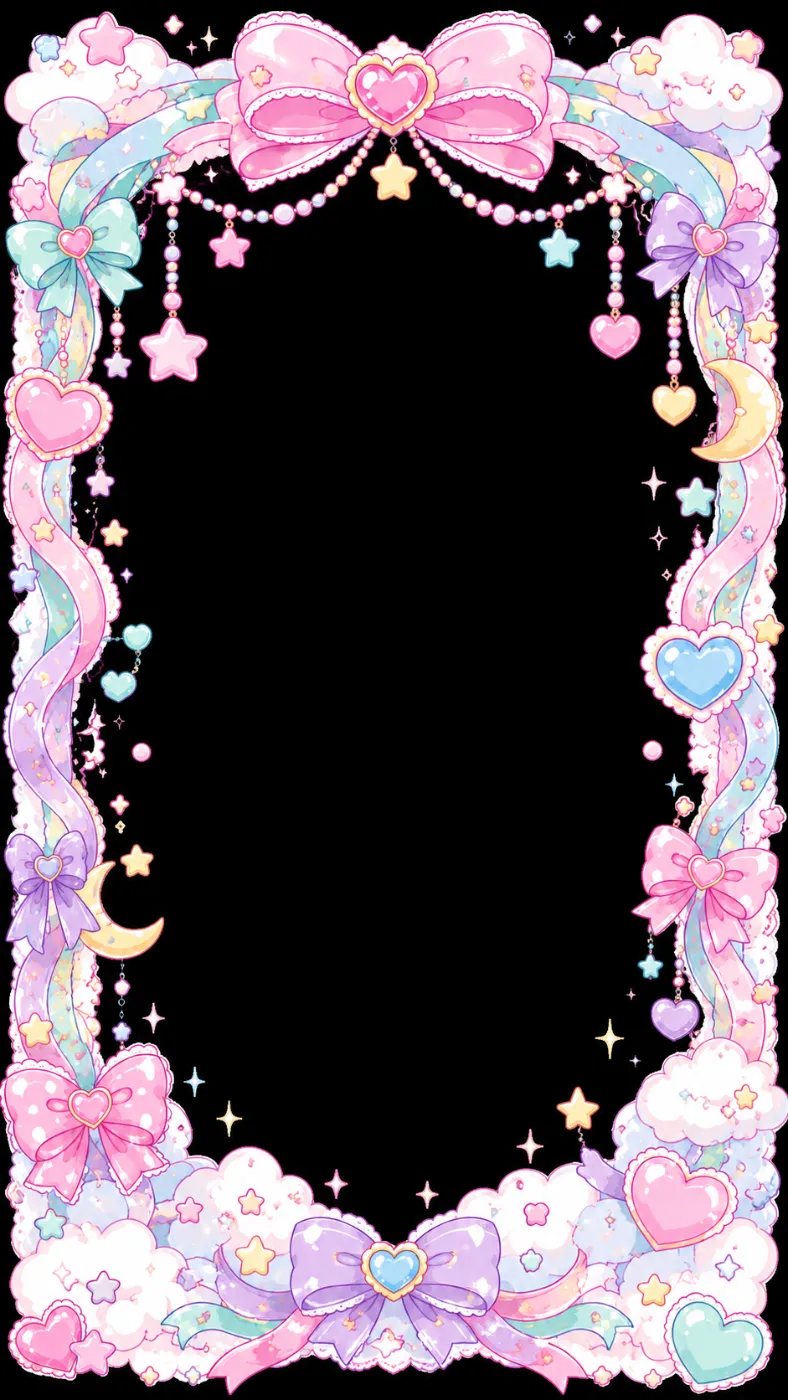
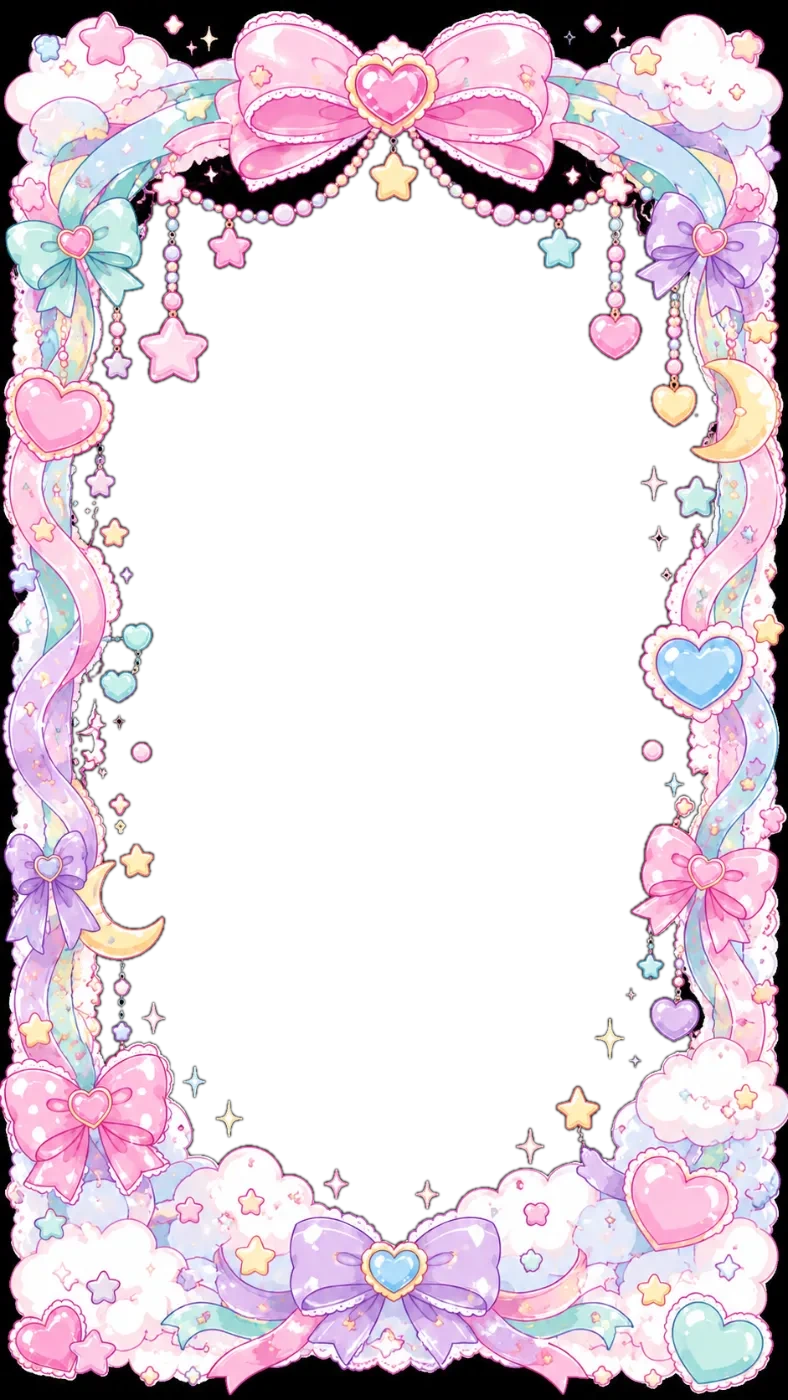
カメラが真っ暗／ファンシー9 の中央が抜けていない（v1.4.3 / code 43）
伊波さん「カメラ真っ暗だよ？」「抜けてないフレームがある」
「縦の右」「７列目」「これ、顔はめじゃない」（2026-08-19）。

■ カメラが真っ暗になっていた（v1.4.1 で私が入れた）

明るさの補正で、**やり方を2回とも間違えた**。

  v1.3.2  g.filter で brightness/contrast/saturate
          → 1920x1080 の全画素に毎コマかかって重い（カクついた）
  v1.4.1  代わりに screen / overlay で色を重ねた
          → **画面が真っ暗**。globalCompositeOperation は
             そのあとのフレーム描画にも効いてしまう

どちらも駄目だったので、**補正をやめて素のまま描く**。
暗さが気になるなら、映像を触るのではなくカメラ側で明るく撮る。

■ ファンシー9（frame_10）の中央が黒いまま

透明 0.0%。**punch-holes を通していない絵**が1枚だけ残っていた。
顔ハメではなく「中央に映像が映る枠」なので、中央から繋がる黒を
辿って抜いた（透明 45.7%・半透明 2.12%）。見本も作り直した。

  ⚠ 残り129枚も調べたが、抜けていない枠は他に無い。

diff --git a/src/recorder.ts b/src/recorder.ts
@@ -223,25 +223,21 @@ export function startStage(opts: StageOptions): () => void {
         //    ceil で1px大きく取るので、丸めたぶんの隙間も埋まる
         const w = Math.ceil(vw * scale), h = Math.ceil(vh * scale);
         const dx = Math.round((OUT_W - w) / 2), dy = Math.round((OUT_H - h) / 2);
+        // ⚠ **明るさの補正はここでやらないこと**（2026-08-19、伊波さん
+        //    「カメラ真っ暗だよ？」）。
+        //
+        //    経緯:
+        //      v1.3.2  g.filter で brightness/contrast/saturate をかけた
+        //              → 1920x1080 の全画素に毎コマかかって重い（カクついた）
+        //      v1.4.1  代わりに screen / overlay で色を重ねた
+        //              → **画面が真っ暗になった**。globalCompositeOperation は
+        //                 このあとのフレーム描画にも効いてしまう
+        //
+        //    どちらも駄目だったので、**素のまま描く**。
+        //    暗さが気になるなら、映像を触るのではなくカメラ側で明るく撮る。
         g.save();
         if (mirror) { g.translate(OUT_W, 0); g.scale(-1, 1); }
         g.drawImage(video, dx, dy, w, h);
-        // ⚠ **canvas の filter を使わないこと**（2026-08-19、伊波さん
-        //    「cameraカクカクしてたよ」）。
-        //    `g.filter = 'brightness(...)'` は 1920x1080 の全画素に毎コマ
-        //    かかるので、端末によっては目に見えて重くなる。
-        //
-        //    代わりに、**明るい色を薄く重ねる**。画素ごとの計算ではなく
-        //    ただの塗りなので、はるかに軽い。
-        //      screen  … 暗いところだけを持ち上げる（白飛びしにくい）
-        //      overlay … 少しだけ色を濃くして、彩度が落ちたぶんを補う
-        //    見た目は filter とほぼ同じで、負荷だけ下がる
-        g.globalCompositeOperation = 'screen';
-        g.fillStyle = 'rgba(150, 150, 170, 0.13)';
-        g.fillRect(dx, dy, w, h);
-        g.globalCompositeOperation = 'overlay';
-        g.fillStyle = 'rgba(255, 230, 245, 0.10)';
-        g.fillRect(dx, dy, w, h);
         g.restore();
       }
     }
